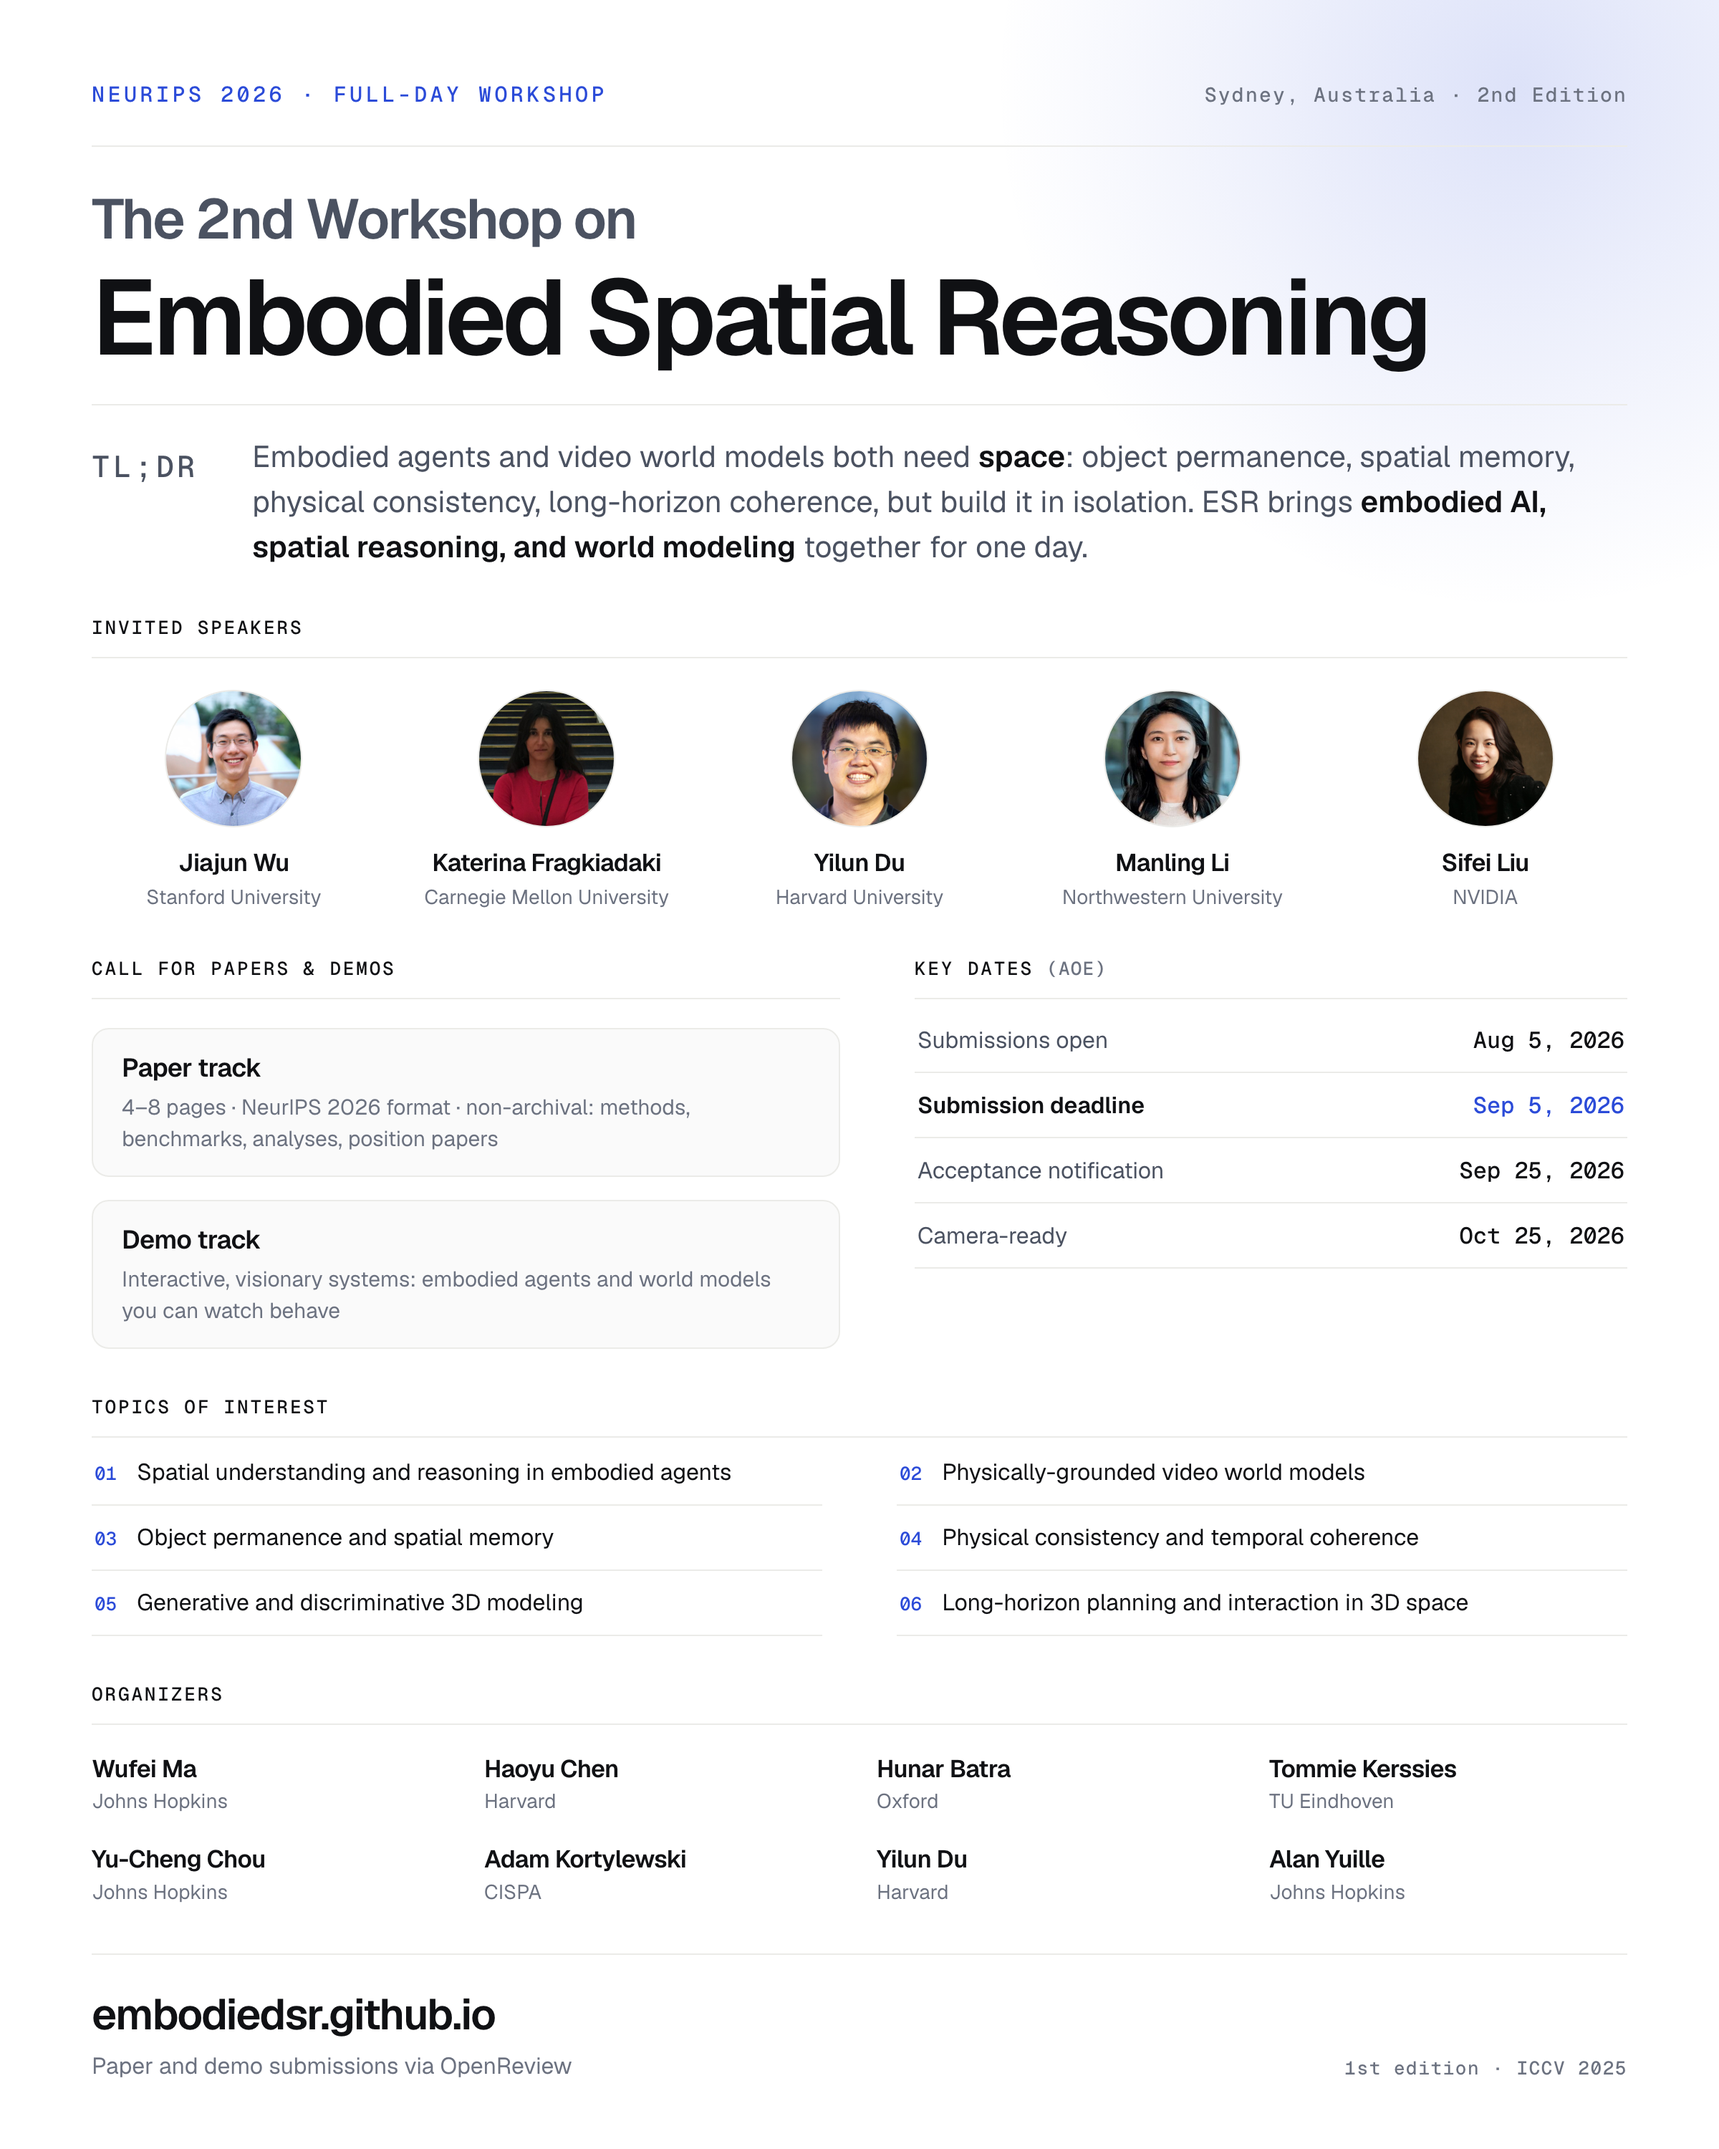
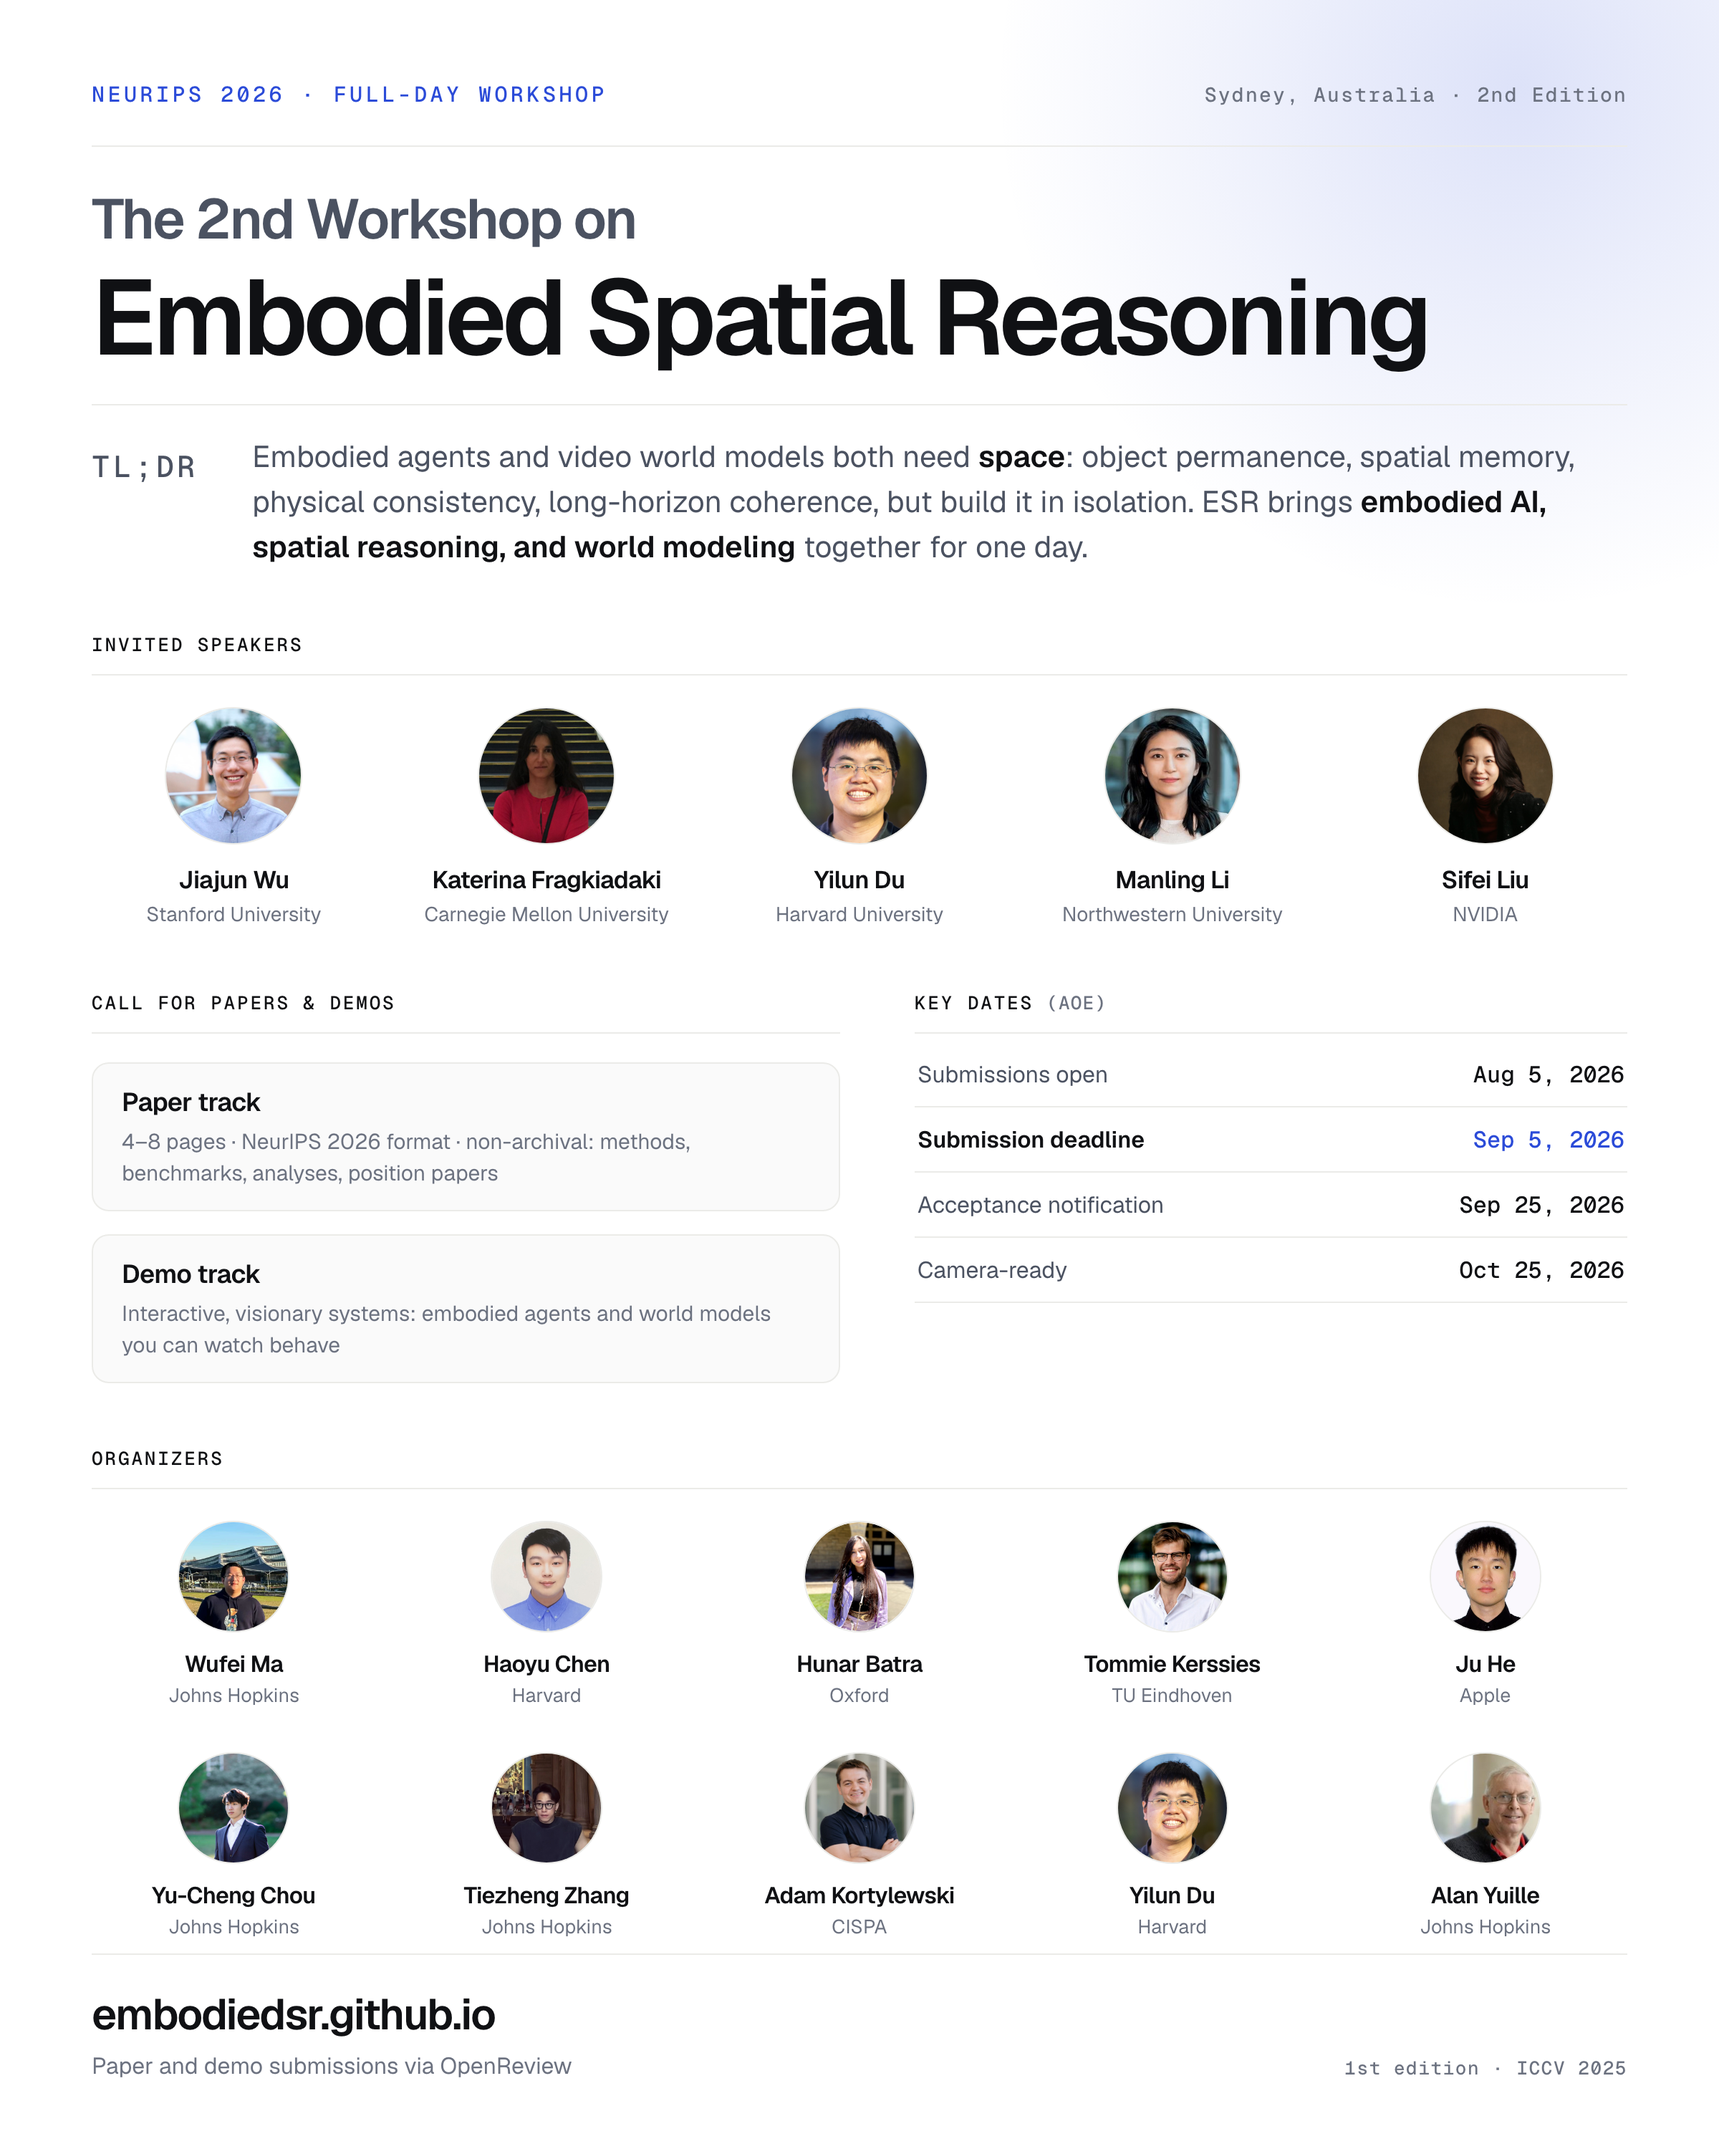
update

diff --git a/teaser.html b/teaser.html
@@ -173,7 +173,10 @@ li { list-style: none; }
 /* ==========================================================================
    Speakers
    ========================================================================== */
-.speakers { margin-top: 32px; }
+/* Section rhythm on the 4:5 canvas is looser than the other two ratios: with
+   the topics list gone there is height to spare, and spreading it across the
+   stack reads better than letting it pool above the footer. */
+.speakers { margin-top: 44px; }
 .speakers__grid {
   display: grid;
   grid-template-columns: repeat(5, minmax(0, 1fr));
@@ -220,7 +223,7 @@ li { list-style: none; }
   display: grid;
   grid-template-columns: minmax(0, 1.05fr) minmax(0, 1fr);
   gap: 52px;
-  margin-top: 32px;
+  margin-top: 44px;
 }
 
 .tracks { margin-top: 20px; display: grid; gap: 16px; }
@@ -263,54 +266,49 @@ li { list-style: none; }
 .dates .is-deadline .d { color: var(--accent); }
 
 /* ==========================================================================
-   Topics — the site's numbered two-column list
-   ========================================================================== */
-.topics { margin-top: 32px; }
-.topics ol {
-  display: grid;
-  grid-template-columns: repeat(2, minmax(0, 1fr));
-  column-gap: 52px;
-  margin-top: 2px;
-}
-.topics li {
-  display: flex;
-  gap: 14px;
-  padding: 11px 2px;
-  border-bottom: 1px solid var(--line);
-  font-size: 16px;
-  line-height: 1.4;
-  color: var(--ink);
-}
-.topics li b {
-  flex: none;
-  font-family: var(--font-mono);
-  font-size: 13px;
-  font-weight: 500;
-  color: var(--accent);
-  padding-top: 3px;
-}
-
-/* ==========================================================================
    Organizers
    ========================================================================== */
-.orgs { margin-top: 32px; }
+.orgs { margin-top: 44px; }
+/* Ten organizers, five-up: two even rows instead of the 4+4+2 a four-column
+   grid would leave. Names still hold one line at this column width. */
 .orgs__grid {
   display: grid;
-  grid-template-columns: repeat(4, minmax(0, 1fr));
-  gap: 20px 24px;
-  margin-top: 20px;
+  grid-template-columns: repeat(5, minmax(0, 1fr));
+  gap: 30px 20px;
+  margin-top: 22px;
+}
+/* Same portrait-over-name stack as the speakers, one notch smaller — the
+   organizers are a supporting credit, not the headline. */
+.org {
+  display: flex;
+  flex-direction: column;
+  align-items: center;
+  text-align: center;
+}
+.org img {
+  flex: none;
+  width: 78px;
+  height: 78px;
+  border-radius: 50%;
+  object-fit: cover;
+  object-position: center top;
+  background: var(--panel);
+  border: 1px solid var(--line);
 }
 .org__name {
-  font-size: 17px;
+  margin-top: 12px;
+  font-size: 16px;
   font-weight: 600;
   letter-spacing: -0.02em;
   line-height: 1.25;
+  text-wrap: balance;
 }
 .org__aff {
   margin-top: 3px;
-  font-size: 14px;
+  font-size: 13.5px;
   line-height: 1.35;
   color: var(--muted);
+  text-wrap: balance;
 }
 
 /* ==========================================================================
@@ -347,8 +345,8 @@ li { list-style: none; }
 
 /* ==========================================================================
    1:1 variant — 1200×1200, for Instagram / square crops.
-   300px shorter than the default, so the type tightens one notch and the
-   topics list drops out; everything else survives.
+   300px shorter than the default, so the type and the portraits tighten one
+   notch; everything else survives unchanged.
    ========================================================================== */
 .canvas--square { height: 1200px; padding: 46px 56px 44px; }
 .canvas--square .head { padding-top: 22px; }
@@ -367,8 +365,11 @@ li { list-style: none; }
 .canvas--square .track__desc { font-size: 14.5px; }
 .canvas--square .dates li { padding: 11px 2px; }
 .canvas--square .dates .l { font-size: 16px; }
-.canvas--square .topics { display: none; }
 .canvas--square .orgs { margin-top: 24px; }
+.canvas--square .orgs__grid { gap: 22px 18px; margin-top: 20px; }
+.canvas--square .org img { width: 64px; height: 64px; }
+.canvas--square .org__name { margin-top: 11px; font-size: 15px; }
+.canvas--square .org__aff { font-size: 13px; }
 .canvas--square .foot { padding-top: 20px; }
 .canvas--square .foot__url { font-size: 28px; }
 
@@ -387,13 +388,14 @@ li { list-style: none; }
   grid-template-rows: auto auto auto 1fr auto;
   column-gap: 44px;
   /* The speakers column spans both upper content rows, so the title block and
-     the four portraits balance instead of leaving a hole under the TL;DR. */
+     the five portraits balance instead of leaving a hole under the TL;DR.
+     With topics gone, organizers take the full-width band above the footer. */
   grid-template-areas:
-    "mast   mast   mast"
-    "head   head   spk"
-    "cfp    dates  spk"
-    "topics topics orgs"
-    "foot   foot   foot";
+    "mast mast  mast"
+    "head head  spk"
+    "cfp  dates spk"
+    "orgs orgs  orgs"
+    "foot foot  foot";
 }
 .canvas--wide .mast   { grid-area: mast; }
 .canvas--wide .head   { grid-area: head; }
@@ -401,7 +403,6 @@ li { list-style: none; }
 .canvas--wide .split  { display: contents; }
 .canvas--wide .cfp    { grid-area: cfp; }
 .canvas--wide .when   { grid-area: dates; }
-.canvas--wide .topics { grid-area: topics; }
 .canvas--wide .orgs   { grid-area: orgs; }
 .canvas--wide .foot   { grid-area: foot; }
 
@@ -419,8 +420,7 @@ li { list-style: none; }
 .canvas--wide .spk__name { margin-top: 0; font-size: 16px; }
 .canvas--wide .spk__aff { font-size: 13.5px; }
 
-.canvas--wide .cfp, .canvas--wide .when, .canvas--wide .topics { margin-top: 18px; }
-.canvas--wide .topics ol { column-gap: 44px; }
+.canvas--wide .cfp, .canvas--wide .when { margin-top: 18px; }
 .canvas--wide .tracks { margin-top: 14px; gap: 10px; }
 .canvas--wide .track { padding: 11px 16px; }
 .canvas--wide .track__name { font-size: 16px; }
@@ -428,14 +428,15 @@ li { list-style: none; }
 .canvas--wide .dates li { padding: 10px 2px; }
 .canvas--wide .dates .l { font-size: 15px; }
 .canvas--wide .dates .d { font-size: 14px; }
-.canvas--wide .topics li { padding: 7px 2px; font-size: 15px; }
 
-/* The organizers column is a third of the canvas wide in 16:9, so the eight
-   names go two-up and the affiliations drop — the names alone carry it. */
+/* Organizers span the full canvas in 16:9 but only get a short band of height,
+   so each one turns sideways: portrait beside the name, five per row. */
 .canvas--wide .orgs { margin-top: 18px; }
-.canvas--wide .orgs__grid { grid-template-columns: repeat(2, minmax(0, 1fr)); gap: 12px 20px; margin-top: 16px; }
-.canvas--wide .org__name { font-size: 15px; }
-.canvas--wide .org__aff { display: none; }
+.canvas--wide .orgs__grid { gap: 14px 24px; margin-top: 16px; }
+.canvas--wide .org { flex-direction: row; align-items: center; text-align: left; gap: 12px; }
+.canvas--wide .org img { width: 44px; height: 44px; }
+.canvas--wide .org__name { margin-top: 0; font-size: 15px; }
+.canvas--wide .org__aff { font-size: 13px; }
 
 .canvas--wide .foot { padding-top: 16px; }
 .canvas--wide .foot__url { font-size: 27px; }
@@ -581,31 +582,50 @@ li { list-style: none; }
     </section>
   </div>
 
-  <section class="topics">
-    <p class="label">Topics of interest</p>
-    <div class="rule"></div>
-    <ol>
-      <li><b>01</b> Spatial understanding and reasoning in embodied agents</li>
-      <li><b>02</b> Physically-grounded video world models</li>
-      <li><b>03</b> Object permanence and spatial memory</li>
-      <li><b>04</b> Physical consistency and temporal coherence</li>
-      <li><b>05</b> Generative and discriminative 3D modeling</li>
-      <li><b>06</b> Long-horizon planning and interaction in 3D space</li>
-    </ol>
-  </section>
-
   <section class="orgs">
     <p class="label">Organizers</p>
     <div class="rule"></div>
     <div class="orgs__grid">
-      <div><p class="org__name">Wufei Ma</p><p class="org__aff">Johns Hopkins</p></div>
-      <div><p class="org__name">Haoyu Chen</p><p class="org__aff">Harvard</p></div>
-      <div><p class="org__name">Hunar Batra</p><p class="org__aff">Oxford</p></div>
-      <div><p class="org__name">Tommie Kerssies</p><p class="org__aff">TU Eindhoven</p></div>
-      <div><p class="org__name">Yu-Cheng Chou</p><p class="org__aff">Johns Hopkins</p></div>
-      <div><p class="org__name">Adam Kortylewski</p><p class="org__aff">CISPA</p></div>
-      <div><p class="org__name">Yilun Du</p><p class="org__aff">Harvard</p></div>
-      <div><p class="org__name">Alan Yuille</p><p class="org__aff">Johns Hopkins</p></div>
+      <div class="org">
+        <img src="images/people/wufei-ma.jpg" alt="Wufei Ma" width="480" height="480" />
+        <div><p class="org__name">Wufei Ma</p><p class="org__aff">Johns Hopkins</p></div>
+      </div>
+      <div class="org">
+        <img src="images/people/haoyu-chen.jpg" alt="Haoyu Chen" width="480" height="479" />
+        <div><p class="org__name">Haoyu Chen</p><p class="org__aff">Harvard</p></div>
+      </div>
+      <div class="org">
+        <img src="images/people/hunar-batra.jpg" alt="Hunar Batra" width="480" height="480" />
+        <div><p class="org__name">Hunar Batra</p><p class="org__aff">Oxford</p></div>
+      </div>
+      <div class="org">
+        <img src="images/people/tommie-kerssies.jpg" alt="Tommie Kerssies" width="480" height="480" />
+        <div><p class="org__name">Tommie Kerssies</p><p class="org__aff">TU Eindhoven</p></div>
+      </div>
+      <div class="org">
+        <img src="images/people/ju-he.jpg" alt="Ju He" width="600" height="600" />
+        <div><p class="org__name">Ju He</p><p class="org__aff">Apple</p></div>
+      </div>
+      <div class="org">
+        <img src="images/people/yucheng-chou.jpg" alt="Yu-Cheng Chou" width="480" height="480" />
+        <div><p class="org__name">Yu-Cheng Chou</p><p class="org__aff">Johns Hopkins</p></div>
+      </div>
+      <div class="org">
+        <img src="images/people/tiezheng-zhang.jpg" alt="Tiezheng Zhang" width="480" height="480" />
+        <div><p class="org__name">Tiezheng Zhang</p><p class="org__aff">Johns Hopkins</p></div>
+      </div>
+      <div class="org">
+        <img src="images/people/adam-kortylewski.jpg" alt="Adam Kortylewski" width="396" height="480" />
+        <div><p class="org__name">Adam Kortylewski</p><p class="org__aff">CISPA</p></div>
+      </div>
+      <div class="org">
+        <img src="images/people/yilun-du.jpg" alt="Yilun Du" width="480" height="480" />
+        <div><p class="org__name">Yilun Du</p><p class="org__aff">Harvard</p></div>
+      </div>
+      <div class="org">
+        <img src="images/people/alan-yuille.jpg" alt="Alan Yuille" width="300" height="200" />
+        <div><p class="org__name">Alan Yuille</p><p class="org__aff">Johns Hopkins</p></div>
+      </div>
     </div>
   </section>
 

diff --git a/index.html b/index.html
@@ -337,7 +337,7 @@
           </a>
 
           <a class="person" href="https://tiezheng11.github.io/" target="_blank" rel="noopener">
-            <img src="images/people/tiezheng-zhang.jpg" alt="Tiezheng Zhang" width="800" height="600" loading="lazy" decoding="async" />
+            <img src="images/people/tiezheng-zhang.jpg" alt="Tiezheng Zhang" width="480" height="480" loading="lazy" decoding="async" />
             <p class="person__name">Tiezheng Zhang <svg viewBox="0 0 24 24" aria-hidden="true"><path d="M7 17 17 7M7 7h10v10"/></svg></p>
             <p class="person__aff">Johns Hopkins University</p>
           </a>
